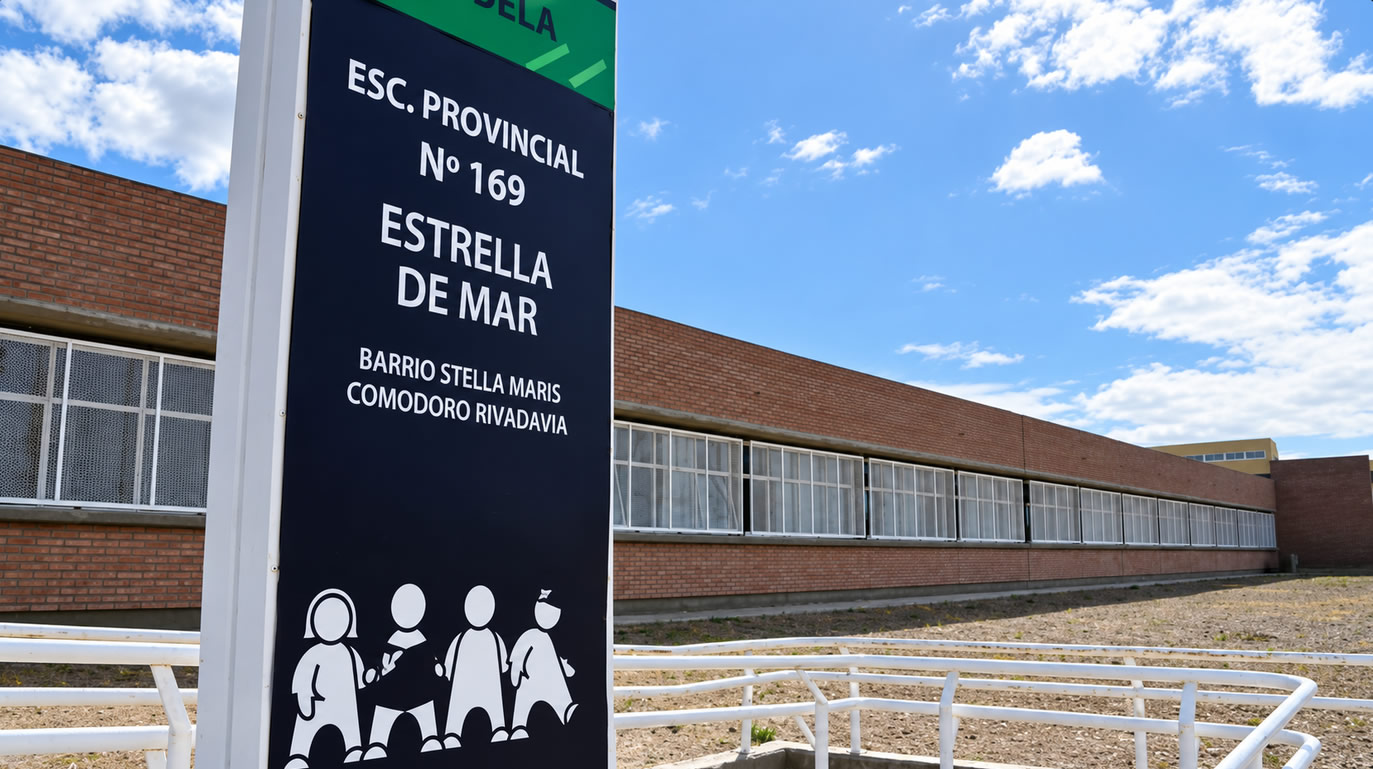
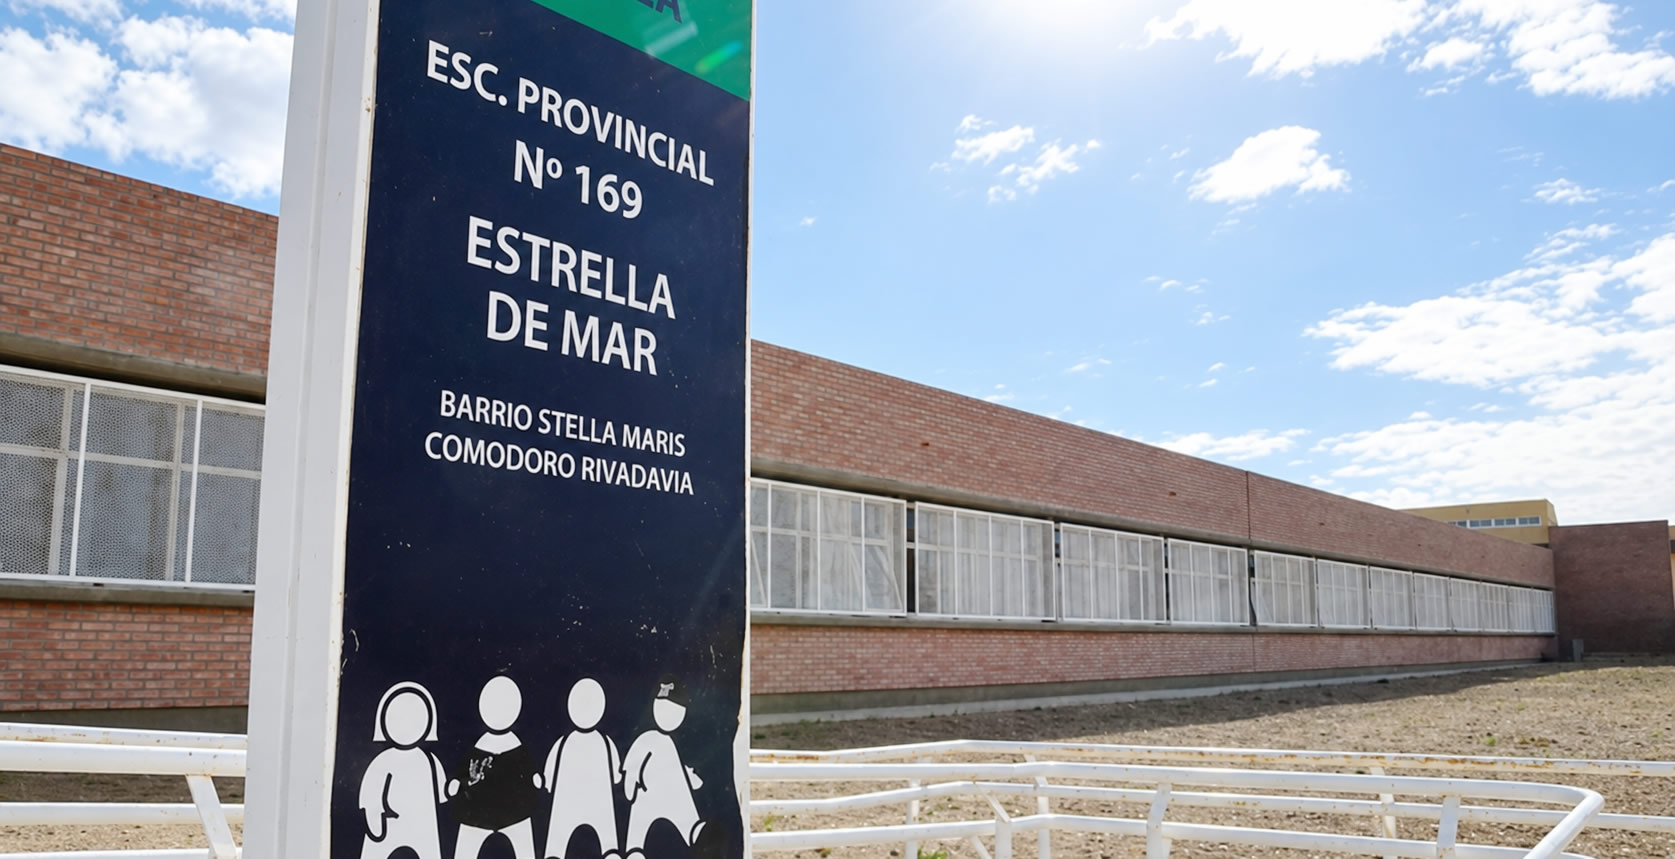
Tarjeta 7: foto nueva de la Escuela 169 y botón de cerrar sin pisar el texto
- Foto nueva de la Escuela 169 (El Patagónico), completa: 1000 × 513, sin el recorte a 16:9.
- En la ventana de las historias, la línea «1 de 10 · lugar · cuando» ya no pasa por debajo del
  botón de cerrar (en el celular se tapaba el final).

diff --git a/src/story.js b/src/story.js
@@ -157,7 +157,7 @@ export function definirPasos(R) {
           fuente: [{ t: 'La Nación, 27/5/2002', url: 'https://www.lanacion.com.ar/sociedad/peligro-bajo-tierra-en-comodoro-rivadavia-nid399990/' },
             { t: 'El Patagónico, 7/12/2011', url: 'https://www.elpatagonico.com/inauguraron-el-nuevo-edificio-la-escuela-169-el-stella-maris-n1411164' },
             { t: '18/3/2015', url: 'https://www.elpatagonico.com/la-escuela-que-se-construyo-tres-pozos-petroleros-que-no-habian-sido-sellados-n773657' }],
-          foto: fotoHistoria('escuela-169', 'Cartel de la Escuela Provincial N° 169 «Estrella de Mar», del barrio Stella Maris, frente a un edificio escolar de ladrillo', 'Foto: El Patagónico') },
+          foto: fotoHistoria('escuela-169', 'Cartel de la Escuela Provincial N° 169 «Estrella de Mar», del barrio Stella Maris, frente a un edificio escolar de ladrillo', 'Foto: El Patagónico', null, [1000, 513]) },
         { idpozo: 120614, titulo: 'Once familias fuera de sus casas', lugar: 'Próspero Palazzo', cuando: '2008',
           texto: 'En marzo de 2008 surgió petróleo en una vivienda de Juan José Paso y Manuel de Sarratea. Unas once familias tuvieron que dejar sus casas y la Justicia civil autorizó el desalojo. Repsol selló el pozo, que según la nota estaba inactivo desde 1991.',
           fuente: [{ t: 'El Patagónico, 20/3/2008', url: 'https://www.elpatagonico.com/por-la-surgencia-petroleo-viviendas-palazzo-once-familias-fueron-evacuadas-n1320746' },

diff --git a/src/styles.css b/src/styles.css
@@ -188,6 +188,7 @@ input[type="checkbox"] { width: 18px; height: 18px; }
 /* ventana de la historia: la de Metodología, más angosta y a la medida del texto */
 .ventana.ventana-historia { width: min(640px, calc(100vw - 32px)); height: fit-content; max-height: 85vh; max-height: 85svh; margin: auto; } /* fit-content: un dialog modal con height auto se estira */
 .ventana.ventana-historia .ventana-cuerpo { height: auto; max-height: inherit; padding: 30px 36px 24px; }
+.ventana-historia #historia-meta { padding-right: 28px; } /* que la línea no pase por debajo del botón de cerrar (en el celular se corta en dos) */
 .ventana-historia h2 { font-family: "Fraunces", Georgia, serif; font-size: 26px; line-height: 1.2; margin: 4px 0 14px; }
 .ventana-historia p { margin: 0 0 12px; font-size: 17px; line-height: 1.5; }
 .ventana-historia .historia-registro { font-size: 14px; color: var(--texto-sec); }
